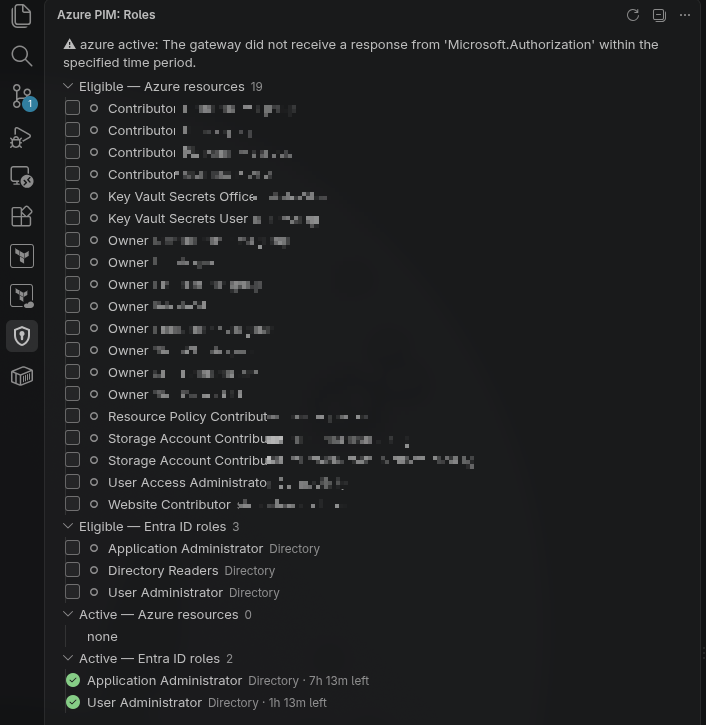
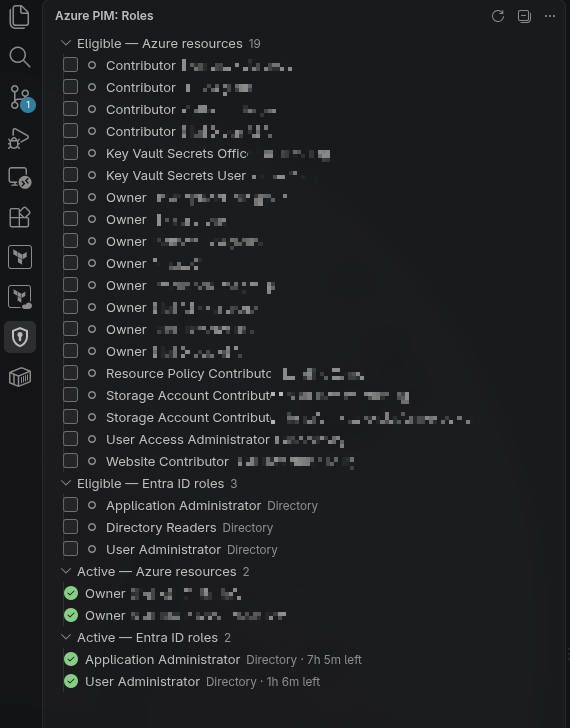
Use a clean VS Code screenshot and show it in the root README too
Replaces the shot that caught a transient ARM gateway timeout, so both
Active sections are populated. The root README now shows both clients.

diff --git a/README.md b/README.md
@@ -14,7 +14,13 @@ both; they share nothing at runtime.
 
 ![The Neovim window: eligible roles on top, live activations below](docs/nvim-window.png)
 
-<sub>Account, tenant and scope names are blurred in the screenshot.</sub>
+<sub>**Neovim** — `:AzPim` opens a floating window.</sub>
+
+![The VS Code sidebar: eligible roles with checkboxes, live activations below](docs/vscode-sidebar.png)
+
+<sub>**VS Code** — the same roles in a sidebar tree view.</sub>
+
+<sub>Account, tenant and scope names are blurred in both screenshots.</sub>
 
 ---
 

diff --git a/vscode/README.md b/vscode/README.md
@@ -6,9 +6,7 @@ parent directory; same endpoints, same semantics, VS Code-native UI.
 
 ![The Azure PIM sidebar: eligible roles with checkboxes, live activations below](../docs/vscode-sidebar.png)
 
-<sub>Scope names are blurred in the screenshot. The warning at the top is a
-transient ARM gateway timeout being surfaced verbatim — it is why the Azure
-activations count reads 0 there.</sub>
+<sub>Scope names are blurred in the screenshot.</sub>
 
 ## Requirements
 
